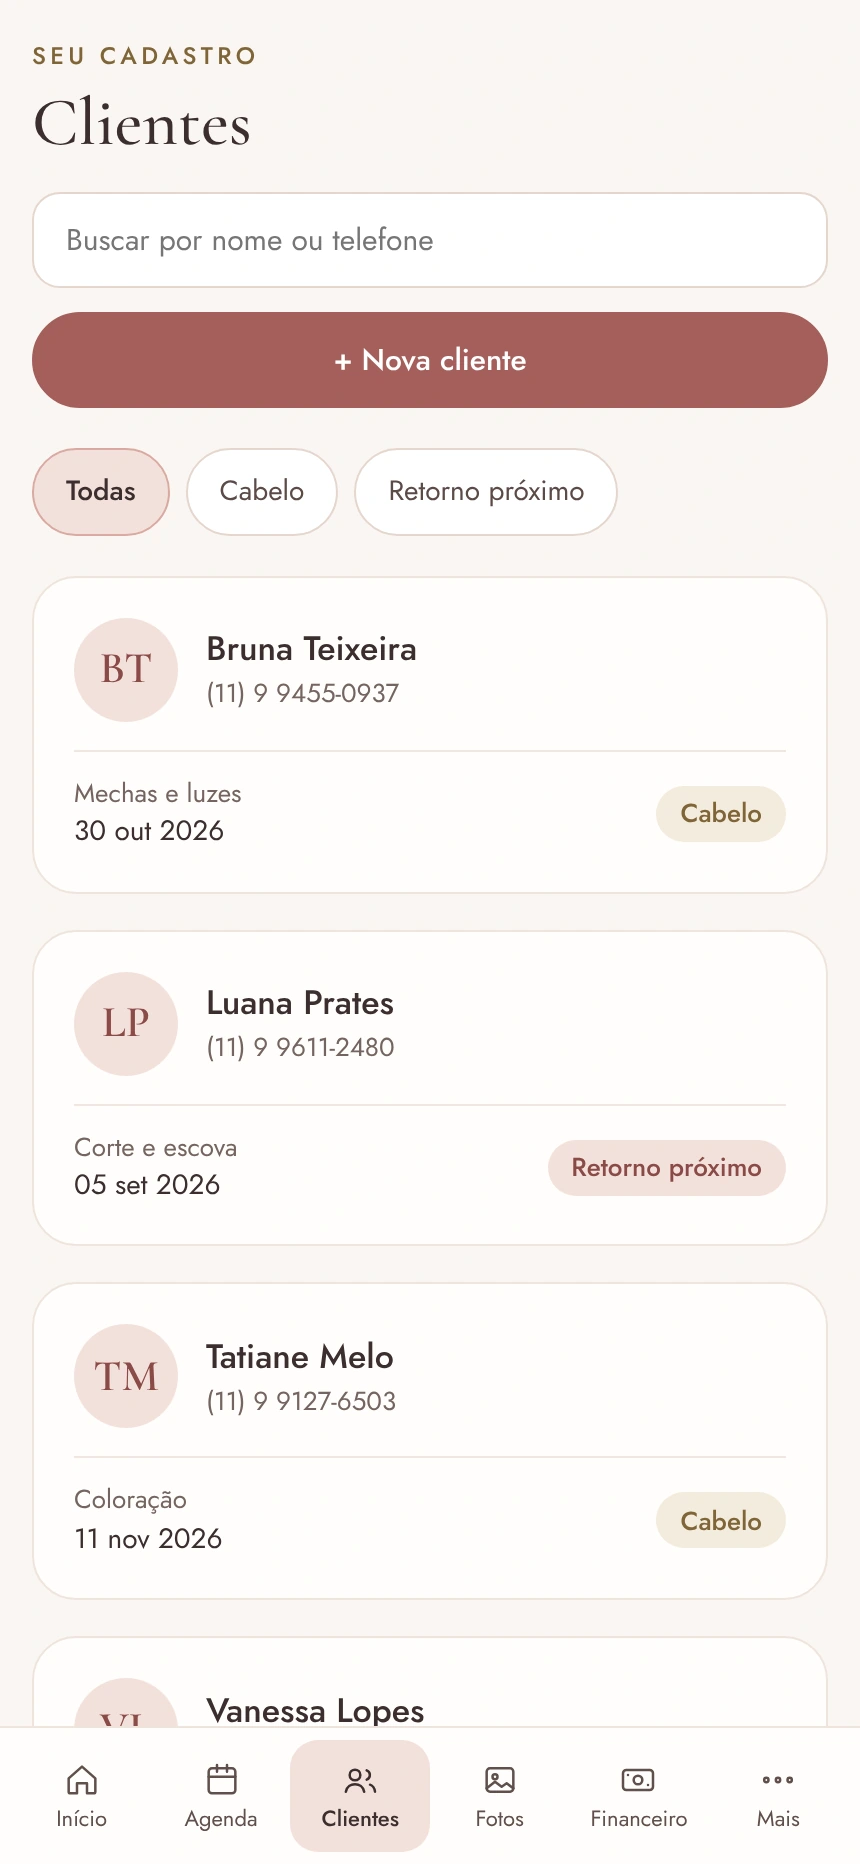
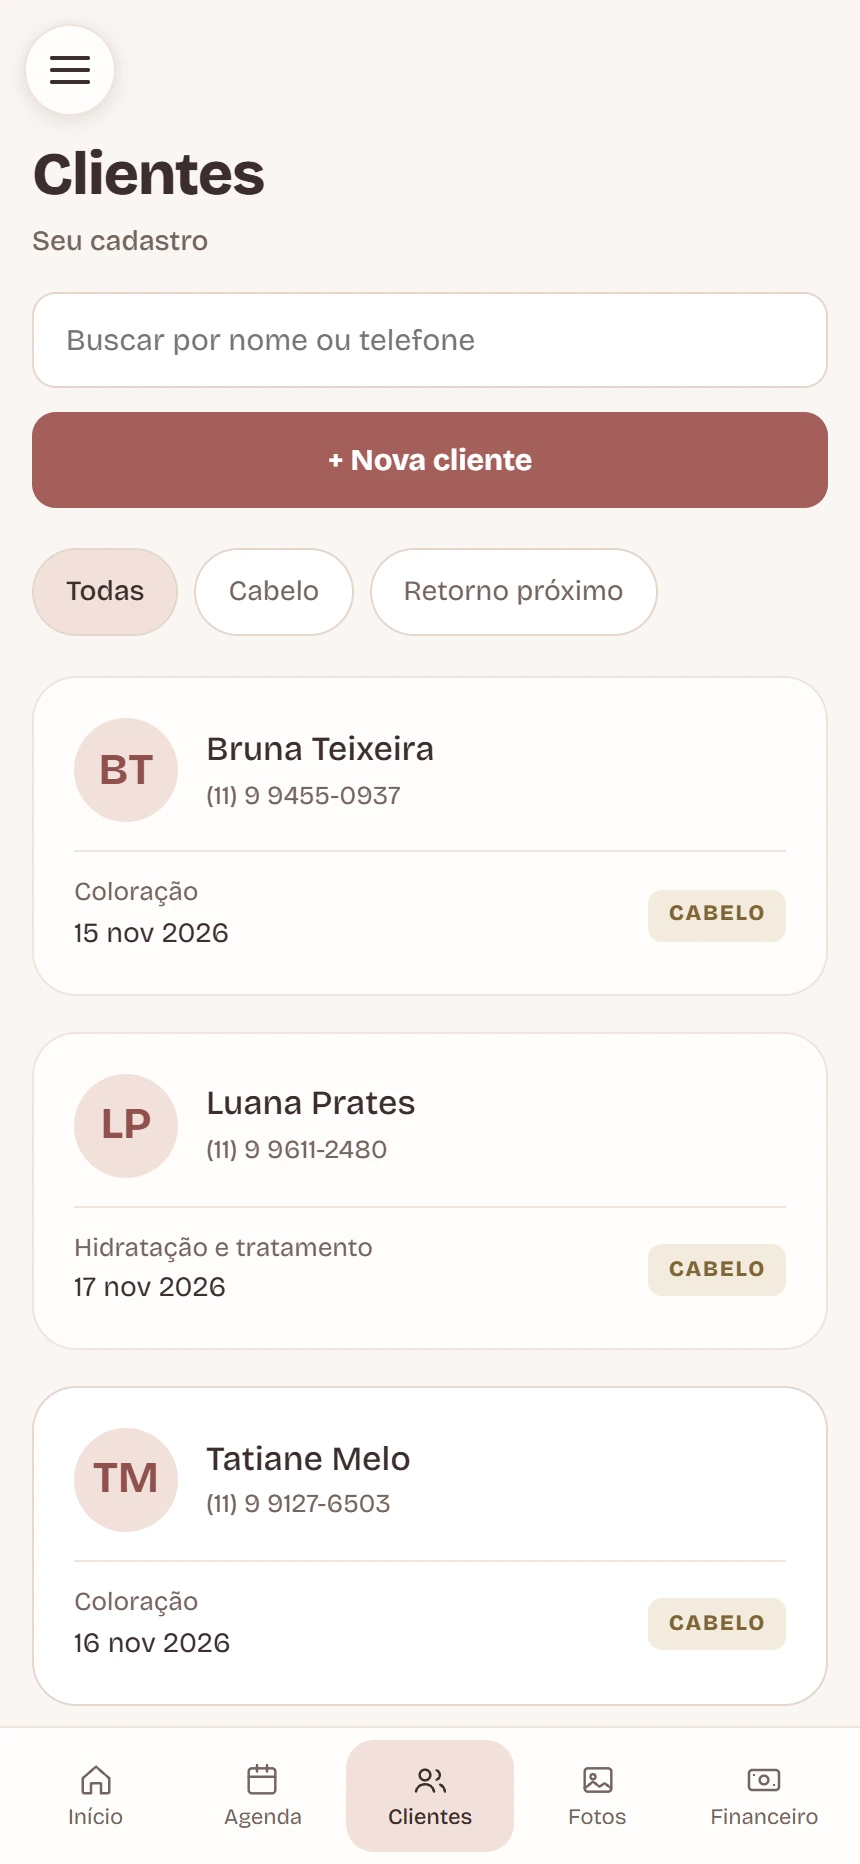
Apresentação do salão com as telas atuais do app

diff --git a/apresentacao/index.html b/apresentacao/index.html
@@ -5,6 +5,7 @@
 <meta name="viewport" content="width=device-width,initial-scale=1,viewport-fit=cover">
 <meta name="theme-color" content="#A8625F">
 <meta name="robots" content="noindex">
+<link rel="icon" href="data:,">
 <title>Glow Studio · Apresentação para salão de cabeleireira</title>
 <style>
 :root{--rose:#A8625F;--rose2:#C98A83;--ink:#3a2828;--cream:#FBF7F3;--blush:#F3E3DE}
@@ -115,7 +116,7 @@ h2{font:italic 400 34px/1.1 Georgia,serif;color:var(--rose);margin:0 0 10px}
 .tip div{display:flex;gap:12px;align-items:flex-start;background:#fff;border:1px solid #efdcd6;border-radius:18px;padding:14px 16px;font-size:14.5px;line-height:1.4;color:#5b4545}
 .tip i{font-style:normal;flex:none;width:28px;height:28px;border-radius:50%;background:var(--blush);color:var(--rose);display:grid;place-items:center;font:700 14px system-ui}
 .tip b{color:var(--ink)}
-#gestao .tip b{display:block;margin-bottom:3px}
+.tip b{display:block;margin-bottom:3px}
 .cph{display:flex;gap:14px;justify-content:center;align-items:flex-start;width:100%}
 .cph figure{margin:0;text-align:center;flex:1;max-width:210px}.cph figcaption{font-size:12.5px;line-height:1.35;color:#5b4545;margin-top:10px}.cph figcaption b{display:block;color:var(--rose);font:italic 400 17px Georgia,serif}
 .cph .cphone{width:100%}
@@ -210,11 +211,11 @@ h3.sub{font:italic 400 30px/1.1 Georgia,serif;color:var(--rose);margin:0 0 10px}
     <button class="btn ghost" id="dRe" style="padding:10px 20px;font-size:13.5px">↻ Ver de novo</button>
   </div>
     <div class="tip">
-      <div><i>1</i><span><b>Guia na tela.</b> Contorno do cabelo inteiro, com linhas de centro e de altura para alinhar a cliente.</span></div>
-      <div><i>2</i><span><b>Dica em cada foto.</b> O app avisa o que enquadrar e pede a mesma distância e o mesmo ângulo nas duas fotos.</span></div>
-      <div><i>3</i><span><b>Muda conforme o serviço.</b> Cabelo inteiro para corte, coloração e mechas. Há guias próprias para rosto, olhos, sobrancelhas, mãos e região tratada.</span></div>
-      <div><i>4</i><span><b>Foto do antes transparente.</b> Um botão liga a foto do antes por cima da câmera, bem clarinha, para a cliente ficar na mesma posição. Dá para ajustar a transparência.</span></div>
-      <div><i>5</i><span><b>Tudo na mesma tela.</b> Alterne entre antes e depois, escolha uma foto da galeria ou vire a câmera.</span></div>
+      <div><i>1</i><span><b>Guia na tela</b>Contorno do cabelo inteiro, com linhas de centro e de altura para alinhar a cliente.</span></div>
+      <div><i>2</i><span><b>Dica em cada foto</b>O app avisa o que enquadrar e pede a mesma distância e o mesmo ângulo nas duas fotos.</span></div>
+      <div><i>3</i><span><b>Muda conforme o serviço</b>Cabelo inteiro para corte, coloração e mechas. Há guias próprias para rosto, olhos, sobrancelhas, mãos e região tratada.</span></div>
+      <div><i>4</i><span><b>Foto do antes transparente</b>Um botão liga a foto do antes por cima da câmera, bem clarinha, para a cliente ficar na mesma posição. Dá para ajustar a transparência.</span></div>
+      <div><i>5</i><span><b>Tudo na mesma tela</b>Alterne entre antes e depois, escolha uma foto da galeria ou vire a câmera.</span></div>
     </div>
   </div>
 </section>
@@ -232,9 +233,9 @@ h3.sub{font:italic 400 30px/1.1 Georgia,serif;color:var(--rose);margin:0 0 10px}
   <p class="lead rv" style="margin-top:8px">Quando todas as fotos seguem o mesmo enquadramento, o antes e o depois se encaixam. A transição entre as duas fica suave, sem a imagem "pulando", e o seu perfil ganha um padrão que passa confiança.</p>
   <div class="two rv"><img class="par" src="img/par.jpg" alt="Antes e depois lado a lado, gerado pelo app"></div>
   <div class="tip rv">
-    <div><i>1</i><span><b>Imagem pronta de antes e depois.</b> Um toque gera uma imagem 4:5 com as duas fotos lado a lado, com o nome do seu salão, ideal para Reels, Stories e status.</span></div>
-    <div><i>2</i><span><b>Baixar a foto.</b> Salve no celular a foto do antes ou do depois, em boa qualidade, para editar no seu aplicativo de vídeo preferido.</span></div>
-    <div><i>3</i><span><b>Enviar da galeria.</b> Já tem a foto no celular? Escolha da galeria e ela entra no lugar do antes ou do depois da cliente.</span></div>
+    <div><i>1</i><span><b>Imagem pronta de antes e depois</b>Um toque gera uma imagem 4:5 com as duas fotos lado a lado, com o nome do seu salão, ideal para Reels, Stories e status.</span></div>
+    <div><i>2</i><span><b>Baixar a foto</b>Salve no celular a foto do antes ou do depois, em boa qualidade, para editar no seu aplicativo de vídeo preferido.</span></div>
+    <div><i>3</i><span><b>Enviar da galeria</b>Já tem a foto no celular? Escolha da galeria e ela entra no lugar do antes ou do depois da cliente.</span></div>
   </div>
   <div class="two rv" style="margin-top:26px"><div class="cphone"><img src="img/baixar.webp" alt="Botões de baixar e de enviar da galeria"></div></div>
 
@@ -260,7 +261,7 @@ h3.sub{font:italic 400 30px/1.1 Georgia,serif;color:var(--rose);margin:0 0 10px}
   <h3 class="sub rv">Tintas e oxidante sob controle</h3>
   <p class="lead rv">Cadastre as tintas, o oxidante, o pó descolorante, as máscaras e o que mais usa. O app avisa antes de acabar.</p>
   <div class="two rv"><div class="cphone"><img src="img/estoque.webp" alt="Tintas e oxidante sob controle"></div></div>
-  <div class="tip rv"><div><i>1</i><span><b>Resumo no topo</b>Quantos produtos você tem, quantos estão no alerta e o valor total parado em estoque.</span></div><div><i>2</i><span><b>Alerta de mínimo</b>Quando o tubo chega no mínimo que você definiu, ele é destacado e aparece um aviso no Início.</span></div><div><i>3</i><span><b>Baixa automática</b>Ao concluir uma coloração, as tintas usadas saem do estoque sozinhas. Se cancelar, voltam.</span></div><div><i>4</i><span><b>Itens que rendem vários atendimentos</b>Frasco de oxidante, por exemplo: o app conta os usos e baixa a unidade só quando acaba.</span></div><div><i>5</i><span><b>Entrada de compras</b>Registre a compra com quantidade e custo; ela pode entrar como despesa no financeiro.</span></div></div>
+  <div class="tip rv"><div><i>1</i><span><b>Resumo no topo</b>Quantos produtos você tem, quantos estão no alerta e o valor total parado em estoque.</span></div><div><i>2</i><span><b>Alerta de mínimo</b>Quando o tubo chega no mínimo que você definiu, ele é destacado e aparece um aviso no Início.</span></div><div><i>3</i><span><b>Baixa automática</b>Ao concluir uma coloração, as tintas usadas saem do estoque sozinhas. Se cancelar, voltam.</span></div><div><i>4</i><span><b>Por tubo ou por ml</b>Cadastre a tinta e o oxidante em ml: cada coloração baixa só os 60 ml usados, e o custo sai certinho.</span></div><div><i>5</i><span><b>Entrada de compras</b>Registre a compra com quantidade e custo; ela pode entrar como despesa no financeiro.</span></div></div>
   <div style="height:52px"></div>
   <div class="eyebrow rv">Financeiro</div>
   <h3 class="sub rv">Quanto o salão realmente ganha</h3>
@@ -284,7 +285,7 @@ h3.sub{font:italic 400 30px/1.1 Georgia,serif;color:var(--rose);margin:0 0 10px}
   <h3 class="sub rv">Lembre a cliente de voltar</h3>
   <p class="lead rv">O app avisa quem está na hora de retocar.</p>
   <div class="two rv"><div class="cphone"><img src="img/relac.webp" alt="Lembre a cliente de voltar"></div></div>
-  <div class="tip rv"><div><i>1</i><span><b>Lembretes de manutenção</b>Lista das clientes que já passaram do prazo de retorno, com botão para chamar no WhatsApp.</span></div><div><i>2</i><span><b>Aniversariantes</b>Mensagem pronta para parabenizar.</span></div><div><i>3</i><span><b>Mensagens editáveis</b>Os textos saem com o nome da cliente e você pode ajustar.</span></div></div>
+  <div class="tip rv"><div><i>1</i><span><b>Lembretes de horário</b>Quem tem horário amanhã, com botão para confirmar pelo WhatsApp.</span></div><div><i>2</i><span><b>Retoque e manutenção</b>Clientes que já passaram do prazo de retorno, como o retoque de raiz em 35 dias.</span></div><div><i>3</i><span><b>Aniversariantes e mensagens editáveis</b>Mensagem pronta para parabenizar. Os textos saem com o nome da cliente e você pode ajustar.</span></div></div>
   <div style="height:52px"></div>
   <div class="eyebrow rv">Equipe</div>
   <h3 class="sub rv">Cabeleireiras, coloristas e comissões</h3>
@@ -302,7 +303,7 @@ h3.sub{font:italic 400 30px/1.1 Georgia,serif;color:var(--rose);margin:0 0 10px}
 <section id="app">
   <div class="eyebrow rv">Por dentro do app</div>
   <h2 class="rv">Veja as telas, no seu ritmo</h2>
-  <p class="lead rv">É o app de verdade, com clientes e valores de exemplo. Use as setas ao lado do telefone para mudar de tela, toque no menu de baixo do app ou deixe o tour passar sozinho.</p>
+  <p class="lead rv">É o app de verdade, com clientes e valores de exemplo. Use as setas ao lado do telefone para mudar de tela, toque nas abas e no menu do app ou deixe o tour passar sozinho.</p>
   <div class="stage rv">
     <div class="pw"><button class="arr" id="prev" aria-label="Tela anterior">‹</button><div class="phone" id="phone"><div class="flash" id="flash"></div></div><button class="arr" id="next" aria-label="Próxima tela">›</button></div>
     <div class="tl"><i id="tlf"></i></div>
@@ -332,24 +333,24 @@ h3.sub{font:italic 400 30px/1.1 Georgia,serif;color:var(--rose);margin:0 0 10px}
 (function () {
   'use strict';
   /* ---------- telas e pontos de toque (frações da tela: x,y,largura,altura) ---------- */
-  var TABS = { inicio: [.014, .933, .162, .06], agenda: [.176, .933, .162, .06], clientes: [.338, .933, .162, .06], fotos: [.5, .933, .162, .06], fin: [.662, .933, .162, .06], mais: [.824, .933, .162, .06] };
-  var TABGO = { inicio: 'inicio', agenda: 'agenda', clientes: 'clientes', fotos: 'fotos', fin: 'fin', mais: 'mais' };
+  var TABS = { inicio: [.014, .933, .194, .06], agenda: [.208, .933, .194, .06], clientes: [.403, .933, .194, .06], fotos: [.597, .933, .194, .06], fin: [.792, .933, .194, .06], menu: [.028, .013, .107, .049] };
+  var TABGO = { inicio: 'inicio', agenda: 'agenda', clientes: 'clientes', fotos: 'fotos', fin: 'fin', menu: 'mais' };
   var SCREENS = {
     inicio: { t: 'Início', d: 'O dia do salão num olhar: atendimentos, retornos a agendar e o que falta receber.', hint: 'agenda', go: {} },
     agenda: { t: 'Agenda', d: 'Agenda por profissional com cortes, colorações e mechas, bloqueio de horários e pedidos de agendamento online.', hint: 'clientes', go: {} },
-    clientes: { t: 'Clientes', d: 'Histórico de cada visita, serviço e data do próximo retorno. Toque na Tatiane para abrir a ficha.', hint: 'row', go: { row: ['ficha', [.037, .685, .926, .19]] } },
-    ficha: { t: 'Ficha da cliente', d: 'Alergias, observações, pontos de fidelidade e linha do tempo de atendimentos. Agora veja as fotos.', hint: 'fotos', go: {} },
-    fotos: { t: 'Galeria de antes e depois', d: 'Todas as transformações organizadas por cliente. Toque em uma para comparar.', hint: 'c2', go: { c1: ['compara', [.037, .124, .926, .209]], c2: ['compara', [.037, .34, .926, .209]], c3: ['compara', [.037, .56, .926, .209]] } },
-    compara: { t: 'Antes e depois', d: 'Arraste o controle para comparar. Toque em Tirar nova foto para abrir a câmera.', hint: 'nova', slider: true, go: { nova: ['camera', [.324, .103, .639, .052]] } },
-    camera: { t: 'Câmera com guia de cabelo', d: 'O guia mostra o enquadramento do cabelo inteiro. Toque no botão para tirar a foto.', hint: 'shot', go: { back: ['compara', [.05, .035, .22, .045]], shot: ['compara', [.36, .865, .28, .125], 'flash'] } },
-    fin: { t: 'Financeiro', d: 'Receita, despesas, comissões e formas de pagamento do salão.', hint: 'mais', go: {} },
-    mais: { t: 'Menu completo', d: 'Pacotes, estoque, serviços, retornos, equipe e relatórios. Toque em Estoque.', hint: 'estoque', go: { relat: ['relat', [.037, .124, .926, .091]], pacotes: ['pacotes', [.037, .233, .926, .091]], estoque: ['estoque', [.037, .341, .926, .091]], proc: ['proc', [.037, .45, .926, .091]], relac: ['relac', [.037, .559, .926, .091]], equipe: ['equipe', [.037, .667, .926, .091]] } },
-    pacotes: { t: 'Pacotes', d: 'Venda pacotes de hidratação e tratamentos, com saldo de sessões por cliente.', hint: 'mais', go: {} },
-    estoque: { t: 'Estoque de produtos', d: 'Tintas, oxidantes, máscaras e shampoos com alerta de estoque mínimo e baixa automática a cada atendimento.', hint: 'mais', go: {} },
-    proc: { t: 'Serviços do salão', d: 'Corte, coloração, mechas e tratamentos, com preço, duração e produtos usados em cada um.', hint: 'mais', go: {} },
-    relac: { t: 'Retornos e lembretes', d: 'Retoque de raiz, manutenção de mechas e aniversários, com mensagem pronta para WhatsApp.', hint: 'mais', go: {} },
-    equipe: { t: 'Equipe', d: 'Cabeleireiras, colorista e auxiliares, cada uma com agenda própria e comissão.', hint: 'mais', go: {} },
-    relat: { t: 'Relatório do atendimento', d: 'Resumo com fotos e cuidados pós-química para enviar à cliente pelo WhatsApp.', hint: 'mais', go: {} }
+    clientes: { t: 'Clientes', d: 'Histórico de cada visita, serviço e data do próximo retorno. Toque na Tatiane para abrir a ficha.', hint: 'row', go: { row: ['ficha', [.037, .744, .926, .171]] } },
+    ficha: { t: 'Ficha da cliente', d: 'Anamnese, próxima manutenção, pontos de fidelidade e linha do tempo de atendimentos. Agora veja as fotos.', hint: 'fotos', go: {} },
+    fotos: { t: 'Galeria de antes e depois', d: 'Todas as transformações organizadas por cliente. Toque na Tatiane para comparar.', hint: 'c', go: { c: ['compara', [.037, .407, .926, .209]] } },
+    compara: { t: 'Antes e depois', d: 'Arraste o controle para comparar. Toque em Tirar nova foto para abrir a câmera.', hint: 'nova', slider: true, go: { gal: ['fotos', [.037, .157, .42, .05]], nova: ['camera', [.46, .157, .5, .05]] } },
+    camera: { t: 'Câmera com guia de cabelo', d: 'O guia mostra o enquadramento do cabelo inteiro. Toque no botão para tirar a foto.', hint: 'shot', cam: true, go: { back: ['compara', [.149, .047, .254, .047]], shot: ['compara', [.402, .865, .195, .09], 'flash'] } },
+    fin: { t: 'Financeiro', d: 'Receita, despesas, comissões e lucro do salão, com o gráfico dos últimos 6 meses. Toque no menu.', hint: 'menu', go: {} },
+    mais: { t: 'Menu completo', d: 'Pacotes, estoque, serviços, retornos, equipe e relatórios. Toque em Estoque.', hint: 'estoque', menu: true, go: { pacotes: ['pacotes', [.037, .378, .621, .047]], estoque: ['estoque', [.037, .431, .621, .047]], proc: ['proc', [.037, .485, .621, .047]], relac: ['relac', [.037, .539, .621, .047]], equipe: ['equipe', [.037, .592, .621, .047]], relat: ['relat', [.037, .646, .621, .047]], fechar: ['inicio', [.7, 0, .3, 1]] } },
+    pacotes: { t: 'Pacotes', d: 'Venda pacotes de hidratação e tratamentos, com saldo de sessões por cliente.', hint: 'menu', go: {} },
+    estoque: { t: 'Estoque de produtos', d: 'Tintas e oxidante em ml, máscaras e shampoos com alerta de estoque mínimo e baixa automática a cada atendimento.', hint: 'menu', go: {} },
+    proc: { t: 'Serviços do salão', d: 'Corte, coloração, mechas e tratamentos, com preço, duração e produtos usados em cada um.', hint: 'menu', go: {} },
+    relac: { t: 'Retornos e lembretes', d: 'Lembrete de horário, retoque de raiz e aniversários, com mensagem pronta para WhatsApp.', hint: 'menu', go: {} },
+    equipe: { t: 'Equipe', d: 'Cabeleireiras, colorista e auxiliares, cada uma com agenda própria e comissão.', hint: 'menu', go: {} },
+    relat: { t: 'Relatório do atendimento', d: 'Resumo com fotos e cuidados pós-química para enviar à cliente pelo WhatsApp.', hint: 'menu', go: {} }
   };
   var ORDER = ['inicio', 'agenda', 'clientes', 'ficha', 'fotos', 'compara', 'camera', 'fin', 'mais', 'estoque', 'proc', 'relac', 'equipe', 'relat', 'pacotes'];
   var phone = document.getElementById('phone'), cap = document.getElementById('cap'), dotsEl = document.getElementById('dots'), flash = document.getElementById('flash');
@@ -370,10 +371,10 @@ h3.sub{font:italic 400 30px/1.1 Georgia,serif;color:var(--rose);margin:0 0 10px}
     if (fl) { flash.classList.remove('go'); void flash.offsetWidth; flash.classList.add('go'); }
     if (prev && imgs[prev]) { imgs[prev].classList.remove('on'); imgs[prev].classList.add('out'); (function (p) { setTimeout(function () { imgs[p].classList.remove('out'); }, 360); })(prev); }
     imgs[k].classList.add('on'); cur = k; layer.innerHTML = ''; layer.appendChild(sw); sw.style.display = 'none';
-    Object.keys(TABS).forEach(function (t) { var b = document.createElement('button'); b.className = 'hot' + (s.hint === t ? ' pulse' : ''); b.setAttribute('aria-label', t); box(TABS[t], b); b.onclick = function () { stopTour(); show(TABGO[t]); }; layer.appendChild(b); });
+    if (!s.cam && !s.menu) Object.keys(TABS).forEach(function (t) { var b = document.createElement('button'); b.className = 'hot' + (s.hint === t ? ' pulse' : ''); b.setAttribute('aria-label', t); box(TABS[t], b); b.onclick = function () { stopTour(); show(TABGO[t]); }; layer.appendChild(b); });
     Object.keys(s.go).forEach(function (n) { var g = s.go[n], b = document.createElement('button'); b.className = 'hot' + (s.hint === n ? ' pulse' : ''); b.setAttribute('aria-label', n); box(g[1], b); b.onclick = function () { stopTour(); show(g[0], g[2]); }; layer.appendChild(b); });
-    if (s.hint === 'shot') { var sb = document.createElement('div'); sb.className = 'hot pulse'; sb.style.pointerEvents = 'none'; box([.36, .865, .28, .125], sb); layer.appendChild(sb); }
-    if (s.slider) { var r = [.091, .336, .819, .283]; sw.style.display = 'block'; sw.style.left = r[0] * 100 + '%'; sw.style.top = r[1] * 100 + '%'; sw.style.width = r[2] * 100 + '%'; sw.style.height = r[3] * 100 + '%'; setSlider(.5); setTimeout(sweep, 450); }
+    
+    if (s.slider) { var r = [.086, .388, .828, .286]; sw.style.display = 'block'; sw.style.left = r[0] * 100 + '%'; sw.style.top = r[1] * 100 + '%'; sw.style.width = r[2] * 100 + '%'; sw.style.height = r[3] * 100 + '%'; setSlider(.5); setTimeout(sweep, 450); }
     cap.innerHTML = '<b>' + s.t + '</b><span>' + s.d + '</span>';
     var i = ORDER.indexOf(k); [].forEach.call(dotsEl.children, function (d, j) { d.className = j === i ? 'on' : ''; });
   }
